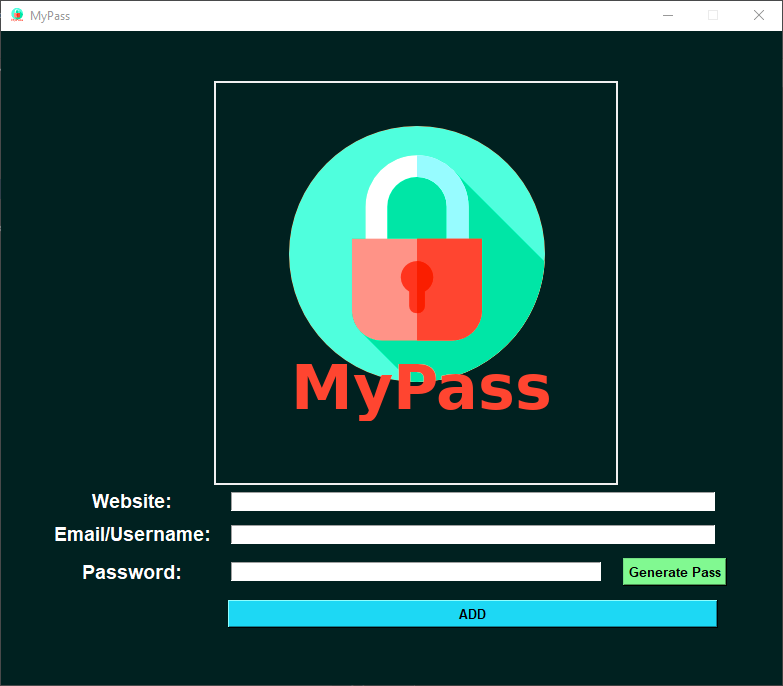
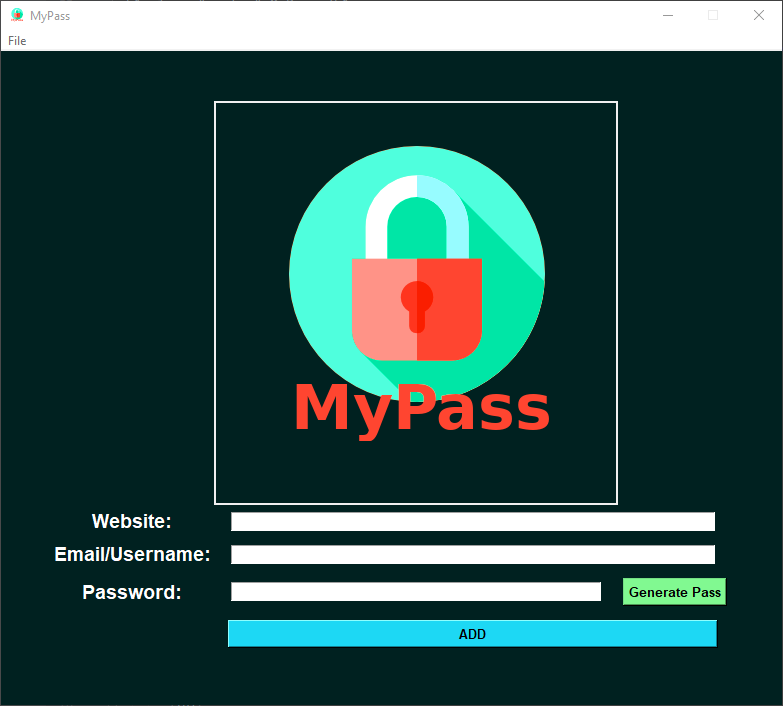
#9: Updated README with new image, included import feature, and have a workaround implemented for SIGINT/abrupt shutdown (#10)

diff --git a/mypass.py b/mypass.py
@@ -1,5 +1,6 @@
 from tkinter import *
 from tkinter import messagebox
+import tkinter.filedialog as fd
 import os
 import base64
 import stat
@@ -10,6 +11,7 @@ from cryptography.fernet import Fernet
 from cryptography.hazmat.primitives import hashes
 from cryptography.hazmat.primitives.kdf.pbkdf2 import PBKDF2HMAC
 import logging
+import ctypes
 
 
 # UI Setup
@@ -25,26 +27,33 @@ symkey = None
 
 
 # Hard-coded items
-folderName = ".mypass"
-encryptedPassFilename = ".reserve.mpdb.xlsx"
-saltedHashPassFilename = ".auth.mpdb.xlsx"
+folderName = "MyPass"
+encryptedPassFilename = ".mypass.cred.xlsx"
+tmpDecryptedPassFilename = "mypass.tmp.cred.xlsx"
+saltedHashPassFilename = ".auth.xlsx"
 logFilename = "mypass.log"
+homePath = os.path.expanduser("~")
 folderPath = os.path.join(os.path.expanduser("~"), folderName)
-encryptedPassFilePath = os.path.join(os.path.expanduser("~"), folderName, encryptedPassFilename)
-saltedHashPassFilePath = os.path.join(os.path.expanduser("~"), folderName, saltedHashPassFilename)
-logPath = os.path.join(os.path.expanduser("~"), folderName, logFilename)
+encryptedPassFilePath = os.path.join(homePath, folderName, encryptedPassFilename)
+tmpDecryptedPassFilePath = os.path.join(homePath, folderName, tmpDecryptedPassFilename)
+saltedHashPassFilePath = os.path.join(homePath, folderName, saltedHashPassFilename)
+logPath = os.path.join(homePath, folderName, logFilename)
+ctypes.windll.shcore.SetProcessDpiAwareness(1)
 
 
 # Key check
 passIsSame = False
+
+# Import filename list
+importedFiles = None
 
 
 def initialize():
     """
     For first time creation:
     Application will create a folder created and called ~/.mypass.
-    The file the passwords will be stored will be called .reserve.mpdb.xlsx.
-    This .reserve.mpdb.xlsx will be an encrypted excel sheet with the Fernet library and will perform python functions to
+    The file the passwords will be stored will be called .mypass.cred.xlsx.
+    This .mypass.cred.xlsx will be an encrypted excel sheet with the Fernet library and will perform python functions to
     store into local variable after decrypting the sheet. It will only be decrypted during use of this application, after
     the password has been applied to it.
 
@@ -52,16 +61,22 @@ def initialize():
     The user's Master password is salted and hashed will be stored in a different file for future comparisons.
 
     After first time creation:
-    Window will prompt for the user's master password and proceed to decrypt the file. For any file modifictions, it must be done
-    during the time the Application has it's Main Window open.
+    Window will prompt for the user's master password and proceed to decrypt the file. For any file modifications, it must be done
+    during the time the Application has its Main Window open.
 
     :return:
     """
-    logging.basicConfig(format='%(asctime)s %(message)s', datefmt='%m/%d/%Y %I:%M:%S %p', filename=logPath, encoding='utf-8', level=logging.DEBUG)
-    logging.info("Initializing MyPass application.")
+
+
     if not os.path.exists(folderPath):
         logging.info("Creating folder at " + folderPath)
         os.mkdir(folderPath)
+    if not os.path.exists(logPath):
+        fp = open(logPath, 'x')
+        fp.close()
+    logging.basicConfig(format='%(asctime)s %(message)s', datefmt='%m/%d/%Y %I:%M:%S %p', filename=logPath,
+                        encoding='utf-8', level=logging.DEBUG)
+    logging.info("Initializing MyPass application.")
     if (not os.path.exists(encryptedPassFilePath) and not os.path.exists(saltedHashPassFilePath)):
         logging.info("Changing permissions of the folder at " + folderPath)
         os.chmod(folderPath, stat.S_IRWXU)
@@ -73,9 +88,9 @@ def initialize():
         logging.info("Checking the master password is same to the one on file.")
         checkPassword()
         if passIsSame:
-            logging.info("Decrypting the MyPass credentials with provided master password located at " + encryptedPassFilePath)
+            logging.info("Decrypting the MyPass credentials located at " + encryptedPassFilePath + " with provided master password.")
             decryptFile()
-            logging.info("Starting up main window of MyPass to store credentials at " + encryptedPassFilePath)
+            logging.info("Starting up main window of MyPass to store credentials at " + tmpDecryptedPassFilePath)
             drawWindow()
         else:
             logging.info("Exiting application.")
@@ -88,6 +103,18 @@ def drawWindow():
     :return:
     """
     window = Tk()
+
+    # Menu Bar
+    menubar = Menu(window)
+    window.option_add('*tearOff', FALSE)
+    fileMenu = Menu(menubar)
+    fileMenu.add_command(label="Import Files", command=importFile)
+    fileMenu.add_command(label="Open Vault", command=openVault)
+    fileMenu.add_separator()
+    fileMenu.add_command(label="Exit", underline=1, command=closeFunction)
+    menubar.add_cascade(label="File", menu=fileMenu)
+    window.config(menu=menubar)
+
     window.protocol("WM_DELETE_WINDOW", closeFunction) # Will execute this function before closing
     window.resizable(False, False)
     window.title("MyPass")
@@ -131,9 +158,8 @@ def drawWindow():
     genPass = Button(text="Generate Pass", font=("Arial", 10, "bold"), bg="#81f991", command=lambda: genPassword(passwdInput))
     genPass.grid(column=2, row=4, padx=wdgtXPad, pady=wdgtYPad)
 
+
     window.mainloop()
-
-
 
 
 
@@ -170,17 +196,19 @@ def closeFunction():
 
 def encryptFile():
     """
-    Encrypts the entire password file after adding the information to the file.
+    Encrypts the entire temporary password file and writes to the encrypted pass file.
     :param userInput:
     :return:
     """
     if symkey:
         fernetKey = Fernet(symkey)
-        with open(encryptedPassFilePath,'rb') as fileD:
+        with open(tmpDecryptedPassFilePath,'rb') as fileD:
             content = fileD.read()
         token = fernetKey.encrypt(content)
         with open(encryptedPassFilePath,'wb') as fileE:
             fileE.write(token)
+        if os.path.exists(tmpDecryptedPassFilePath):
+            os.remove(tmpDecryptedPassFilePath)
     else:
         logging.error("The symmetric key has failed to initialize during encryption!")
 
@@ -189,16 +217,20 @@ def encryptFile():
 
 def decryptFile():
     """
-    Decrypts the entire password file
+    Decrypts the entire password file and stores into a temporary file.
     :param userInput: String input that the user has entered
     :return:
     """
     if symkey:
+        tmpPassWb = Workbook()
+        passWs = tmpPassWb.active
+        passWs.title = "Passwords"
+        tmpPassWb.save(tmpDecryptedPassFilePath)
         fernetKey = Fernet(symkey)
         with open(encryptedPassFilePath,'rb') as fileE:
             content = fileE.read()
         token = fernetKey.decrypt(content)
-        with open(encryptedPassFilePath,'wb') as fileD:
+        with open(tmpDecryptedPassFilePath,'wb') as fileD:
             fileD.write(token)
     else:
         logging.error("The symmetric key has failed to initialize during decryption!")
@@ -210,13 +242,13 @@ def addBtnCallback(wEnt, eEnt, pEnt):
     Will add all the information from the input fields and place it into the excel file.
     :return: None
     """
-    passWb = load_workbook(encryptedPassFilePath)
+    passWb = load_workbook(tmpDecryptedPassFilePath)
     passWs = passWb["Passwords"]
     lastRow = passWs.max_row
     passWs.cell(column=1, row=lastRow+1, value=wEnt.get())
     passWs.cell(column=2, row=lastRow+1, value=eEnt.get())
     passWs.cell(column=3, row=lastRow+1, value=pEnt.get())
-    passWb.save(encryptedPassFilePath)
+    passWb.save(tmpDecryptedPassFilePath)
     messagebox.showinfo(message="Credentials were added!")
     wEnt.delete(0, len(wEnt.get()))
     eEnt.delete(0, len(eEnt.get()))
@@ -236,6 +268,7 @@ def setPassword():
     window.configure(bg=bgColor)
     window.config(padx=50, pady=50)
     window.minsize(width=550, height=150)
+    window.protocol("WM_DELETE_WINDOW", setPassCloseFunction)  # Will execute this function before closing
 
     # Labels in columns 0
     passwordLabel = Label(text="New Password:", font=("Arial", 14, "bold"), fg="white", bg=bgColor)
@@ -256,6 +289,11 @@ def setPassword():
     setPassBtn = Button(text="Set Password", font=("Arial", 14, "bold"), bg="#81f991", command=lambda: savePassword(window, passwordInput.get(), confirmPassInput.get()))
     setPassBtn.grid(column=2, row=2,  columnspan=2, padx=wdgtXPad, pady=wdgtYPad)
     window.mainloop()
+
+
+def setPassCloseFunction():
+    quit()
+
 
 
 
@@ -293,14 +331,17 @@ def savePassword(window, passwd, confirmPasswd):
         passWs.title = "Passwords"
         passwordWb.save(encryptedPassFilePath)
         window.destroy()
+        tmpPassWb = Workbook()
+        passWs = tmpPassWb.active
+        passWs.title = "Passwords"
+        tmpPassWb.save(tmpDecryptedPassFilePath)
 
 
 
 def checkPassword():
     """
-    Window will prompt user to enter the decryption password to access the file which is located in ~/.mypass/reserve.mpdb.
-    Will determine if reserve.mpdb has been tampered with previously by saving the encrypted hash. The encrypted hash will use the
-    user's private key to encrypt.
+    Window will prompt user to enter the decryption password to access the file which is located in ~/MyPass/mypass.cred.xlsx.
+    This file will be checked against ~/MyPass/mypass.cred.xlsx hash. If the file is tampered with, the passwords will no longer be accessible.
     :return: string input of the password in sha256 hash form
     """
     window = Tk()
@@ -357,6 +398,40 @@ def compareMasterPassword(window, password):
     else:
         passIsSame = False
         window.destroy()
+
+
+
+def importFile():
+    """
+    Callback function that imports the credentials that the user created in an excel sheet and stores into
+    the temporary database for later encryption.
+    :return:
+    """
+    importedFiles = fd.askopenfilenames(title="Select password files", initialdir=homePath,
+                                        filetypes=[("Excel files", ".xlsx .xls")], multiple=True)
+    if importedFiles:
+        passWb = load_workbook(tmpDecryptedPassFilePath)
+        passWs = passWb["Passwords"]
+        lastRow = passWs.max_row
+        for files in list(importedFiles):
+            tempWb = load_workbook(files)
+            tempWs = tempWb.active
+            tempLastRow = tempWs.max_row
+            for row in tempWs.iter_rows(min_row=1,max_col=3,max_row=tempLastRow):
+                passWs.cell(column=1, row=lastRow + 1, value=row[0].value)
+                passWs.cell(column=2, row=lastRow + 1, value=row[1].value)
+                passWs.cell(column=3, row=lastRow + 1, value=row[2].value)
+                lastRow += 1
+        passWb.save(tmpDecryptedPassFilePath)
+        messagebox.showinfo(message="Credentials were transferred!")
+        importedFiles = None
+
+
+
+
+
+def openVault():
+    os.startfile(tmpDecryptedPassFilePath)
 
 
 def main():

diff --git a/README.md b/README.md
@@ -79,8 +79,8 @@
 <!-- ABOUT THE PROJECT -->
 ## About The Project
 [![Product Name Screen Shot][product-screenshot]](https://github.com/CrystlBearer/MyPass)
+This project is an offline password manager that uses Python Tkinter, Cryptography, and Openpyxl.
 
-This project is an offline password manager that uses Python Tkinter and the cryptography library.
 This doesn't rely on the internet and stores on the local user's machine in their home directory.
 The user's credentials are stored into an encrypted file that can only be accessed during the use of the application.
 
@@ -92,6 +92,7 @@ The user's credentials are stored into an encrypted file that can only be access
 
 * [Python 3.9](https://www.python.org/downloads/)
 * [Cryptography](https://github.com/pyca/cryptography/)
+* [Openpyxl](https://foss.heptapod.net/openpyxl/openpyxl)
 
 <p align="right">(<a href="#top">back to top</a>)</p>
 
@@ -131,6 +132,7 @@ When running the application for the first time, the application will ask the us
 ![set-password](images/Set_Password.png)
 
 Afterwards, the main window application will appear to allow the user to add their user credentials. When the user exits, the application will encrypt the user's credential files so no one else can access them. The next time the user uses the application the user will have to enter their master password to access their list of credentials.
+
 ![main-window](images/MyPass_Main_Win.png)
 <p align="right">(<a href="#top">back to top</a>)</p>
 
